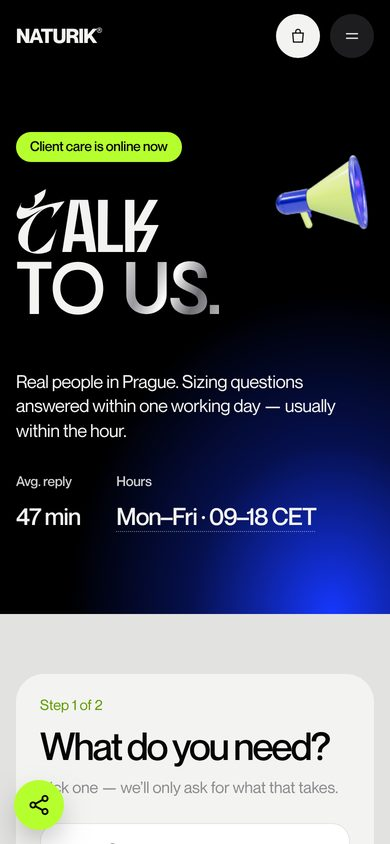
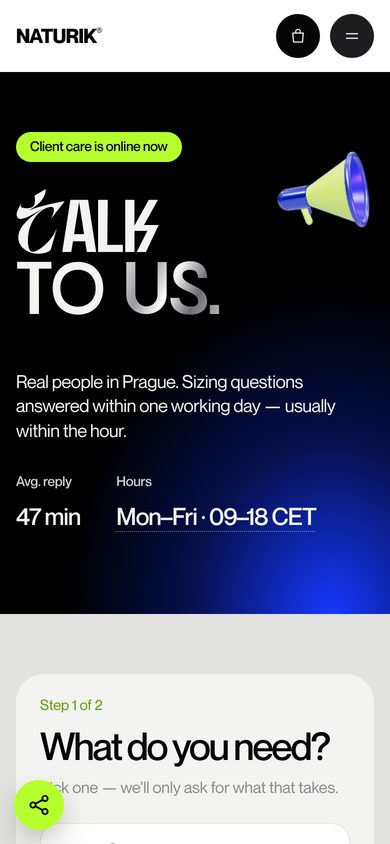
Mobile: solid white nav bar that hides on scroll down and returns on scroll up; README without emojis or coloured badges, mobile shots as a table, no full-page images
Claude-Session: https://claude.ai/code/session_01Tmbk2dd4R9AbAKMPzQgXd1

Changed region(s): [[0.0, 0.0, 1.0, 0.0924], [0.7077, 0.154, 0.9538, 0.2773]]

diff --git a/src/js/components/ui.js b/src/js/components/ui.js
@@ -97,9 +97,17 @@ export const accordion = (items, { single = false, openFirst = false } = {}) => 
 /* ---------- header: hide on scroll down, colour on light sections ---------- */
 function initHeader() {
   const h = document.querySelector('[data-header]'); if (!h) return;
-  let last = 0;
+  let last = 0, acc = 0;
+  // phones: the (white) bar slides away while you scroll down and comes straight back on any scroll up
+  const mq = matchMedia('(max-width: 819px)');
   const update = (y) => {
     const menuOpen = document.querySelector('[data-mobile-menu].is-open');
+    const d = y - last;
+    // smooth scrolling moves a pixel or two per frame, so add up the movement in one direction
+    acc = Math.sign(d) === Math.sign(acc) ? acc + d : d;
+    if (!mq.matches || menuOpen || y < 70) h.classList.remove('m-hide');
+    else if (acc > 14) h.classList.add('m-hide');
+    else if (acc < -6) h.classList.remove('m-hide');
     last = y;
     const probe = 36;
     h.classList.toggle('on-light', !menuOpen && $$('[data-header-light]').some((s) => { const r = s.getBoundingClientRect(); return r.top <= probe && r.bottom >= probe; }));

diff --git a/src/styles/pages.css b/src/styles/pages.css
@@ -1783,3 +1783,14 @@ html.is-routing .fab { opacity: 0; transform: translateY(14px) scale(0.7); }
 }
 @media (min-width: 901px) { .contact-hero__facts dt, .contact-hero__facts dd { text-shadow: 0 1px 14px rgba(0,0,0,0.75); } }
 .contact-hero__3d { pointer-events: none !important; cursor: default; }
+
+/* phones: solid white navigation bar, hides on scroll down, returns on scroll up */
+@media (max-width: 819px) {
+  .site-header, .site-header.on-light { background: #fff; color: var(--c-ink); box-shadow: 0 1px 0 rgba(0,0,0,0.08); }
+  .site-header::before, .site-header.on-light::before { display: none; }
+  .site-header .icon-btn:not(.icon-btn--dark), .site-header.on-light .icon-btn:not(.icon-btn--dark) { background: var(--c-ink); color: var(--c-bone); }
+  .site-header .brand__mark { --mark-ink: #fff; }
+  .site-header.m-hide { transform: translateY(-110%); }
+  body:has(.mobile-menu.is-open) .site-header { background: transparent; color: var(--c-bone); box-shadow: none; transform: none; }
+  body:has(.mobile-menu.is-open) .site-header .icon-btn:not(.icon-btn--dark) { background: var(--c-bone); color: var(--c-ink); }
+}

diff --git a/README.md b/README.md
@@ -6,13 +6,13 @@
 
 A drop store for the M1 Puffer: scroll-driven storytelling, live 3D objects and a complete (simulated) shop with checkout. No framework, no page reloads.
 
-[**▶ Open the live site**](https://denysovski.github.io/NATURIK/) &nbsp;·&nbsp; [Shop](https://denysovski.github.io/NATURIK/shop.html) &nbsp;·&nbsp; [Product](https://denysovski.github.io/NATURIK/shop.html?p=m1-obsidian) &nbsp;·&nbsp; [Contact](https://denysovski.github.io/NATURIK/contact.html)
+[**Open the live site**](https://denysovski.github.io/NATURIK/) &nbsp;·&nbsp; [Shop](https://denysovski.github.io/NATURIK/shop.html) &nbsp;·&nbsp; [Product](https://denysovski.github.io/NATURIK/shop.html?p=m1-obsidian) &nbsp;·&nbsp; [Contact](https://denysovski.github.io/NATURIK/contact.html)
 
-![Vite](https://img.shields.io/badge/Vite-646CFF?logo=vite&logoColor=white)
-![GSAP](https://img.shields.io/badge/GSAP%20%2B%20ScrollTrigger-0AE448?logo=greensock&logoColor=black)
-![three.js](https://img.shields.io/badge/three.js-000000?logo=threedotjs&logoColor=white)
-![Lenis](https://img.shields.io/badge/Lenis-smooth%20scroll-b6ff2e)
-![No framework](https://img.shields.io/badge/framework-none-1638ff)
+![Vite](https://img.shields.io/badge/Vite-000000?style=flat-square&labelColor=000000&logo=vite&logoColor=white)
+![GSAP](https://img.shields.io/badge/GSAP%20%2B%20ScrollTrigger-000000?style=flat-square&labelColor=000000&logo=greensock&logoColor=white)
+![three.js](https://img.shields.io/badge/three.js-000000?style=flat-square&labelColor=000000&logo=threedotjs&logoColor=white)
+![Lenis](https://img.shields.io/badge/Lenis-smooth%20scroll-000000?style=flat-square&labelColor=000000)
+![No framework](https://img.shields.io/badge/framework-none-000000?style=flat-square&labelColor=000000)
 
 <br>
 
@@ -26,13 +26,13 @@ A drop store for the M1 Puffer: scroll-driven storytelling, live 3D objects and 
 
 | | |
 |---|---|
-| 🧥 **The drop** | M1 Puffer **77C** (Obsidian) and **78C** (Arctic), 250 of each. One stock source drives every counter: the nav chip, the hero, Live count, the shop and each product (**106 left: 65 black, 41 white**). |
-| 🗺 **Pages** | Home, Shop with product pages, Contact, Privacy, Terms and 404. Pages switch without reloads, with a tracker/terminal transition. |
-| 🛍 **Shop** | Colour filter, sorting, full-photo gallery with a fact on every photo, a 20-second size finder, a size guide, a waitlist for sold-out sizes and a sliding Obsidian ↔ Arctic switch. |
-| 💳 **Bag & checkout** | Slide-in bag, free-shipping meter, discount codes, 4-step checkout with card validation (demo only, nothing is charged). |
-| ✨ **Motion** | Pinned zoom sections, a scroll-scrubbed photo stage, slot-machine counters, a live clock, glitch partners grid and smooth Lenis scrolling. |
-| 🧊 **3D** | A WebGL blob, glossy objects (bike wheel + thermometer, camera, star), a megaphone and a tilted question mark. All three.js, loaded lazily and drawn only while on screen. |
-| 🔎 **SEO** | Meta and Open Graph, JSON-LD (Product, ItemList, FAQ, Organization), sitemap, robots, 404. |
+| **The drop** | M1 Puffer **77C** (Obsidian) and **78C** (Arctic), 250 of each. One stock source drives every counter: the nav chip, the hero, Live count, the shop and each product (**106 left: 65 black, 41 white**). |
+| **Pages** | Home, Shop with product pages, Contact, Privacy, Terms and 404. Pages switch without reloads, with a tracker/terminal transition. |
+| **Shop** | Colour filter, sorting, full-photo gallery with a fact on every photo, a 20-second size finder, a size guide, a waitlist for sold-out sizes and a sliding Obsidian ↔ Arctic switch. |
+| **Bag & checkout** | Slide-in bag, free-shipping meter, discount codes, 4-step checkout with card validation (demo only, nothing is charged). |
+| **Motion** | Pinned zoom sections, a scroll-scrubbed photo stage, slot-machine counters, a live clock, glitch partners grid and smooth Lenis scrolling. |
+| **3D** | A WebGL blob, glossy objects (bike wheel + thermometer, camera, star), a megaphone and a tilted question mark. All three.js, loaded lazily and drawn only while on screen. |
+| **SEO** | Meta and Open Graph, JSON-LD (Product, ItemList, FAQ, Organization), sitemap, robots, 404. |
 
 ---
 
@@ -81,38 +81,10 @@ The homepage tells the story of the jacket from top to bottom. Each section has 
 
 ## Mobile
 
-<p align="center">
-  <img src="docs/screens/m-hero.jpg" width="190" alt="Mobile hero">
-  <img src="docs/screens/m-live-count.jpg" width="190" alt="Mobile live count">
-  <img src="docs/screens/m-who.jpg" width="190" alt="Mobile 3D cards">
-  <img src="docs/screens/m-clock.jpg" width="190" alt="Mobile clock">
-  <img src="docs/screens/m-product.jpg" width="190" alt="Mobile product">
-  <img src="docs/screens/m-contact.jpg" width="190" alt="Mobile contact">
-</p>
-
----
-
-## Full pages
-
-Scroll-throughs of each page at full height, captured screen by screen as the animations play.
-
-<details>
-<summary><b>Home</b>: the whole story, top to bottom</summary>
-<br>
-<img src="docs/screens/full-home.jpg" width="720" alt="Full homepage">
-</details>
-
-<details>
-<summary><b>Shop</b></summary>
-<br>
-<img src="docs/screens/full-shop.jpg" width="720" alt="Full shop page">
-</details>
-
-<details>
-<summary><b>Contact</b></summary>
-<br>
-<img src="docs/screens/full-contact.jpg" width="720" alt="Full contact page">
-</details>
+| | | |
+|:---:|:---:|:---:|
+| <img src="docs/screens/m-hero.jpg" width="230" alt="Mobile hero"><br><sub>Hero</sub> | <img src="docs/screens/m-live-count.jpg" width="230" alt="Mobile live count"><br><sub>Live count</sub> | <img src="docs/screens/m-who.jpg" width="230" alt="Mobile 3D cards"><br><sub>Who it's for, 3D</sub> |
+| <img src="docs/screens/m-clock.jpg" width="230" alt="Mobile clock"><br><sub>Who showed up</sub> | <img src="docs/screens/m-product.jpg" width="230" alt="Mobile product"><br><sub>Product</sub> | <img src="docs/screens/m-contact.jpg" width="230" alt="Mobile contact"><br><sub>Contact</sub> |
 
 ---
 
